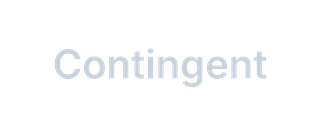
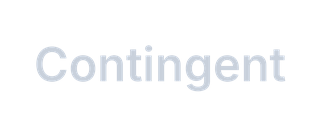
Dashboard 1: 30 px margins, larger header text, wider KPI cards and body

Changed region(s): [[0.0938, 0.3438, 0.9062, 0.7188]]

diff --git a/docs/brand/build/make_button_shapes.py b/docs/brand/build/make_button_shapes.py
@@ -9,10 +9,10 @@ Writes to docs/brand/shapes/Arcadia/ and a preview to docs/brand/build/button_pr
 
 | File | Cell on the dashboard | Drawn at | Used by |
 |---|---|---|---|
-| seg_worker_{employees,contingent,total}_{on,off} | 80 x 32 | 320 x 128 | #1 top bar, Worker toggle (capsule #243A57) |
-| fld_top | 164 x 32 | 656 x 128 | #1 top bar, Period Field and Group Field (white capsule, same radius as the toggle and Reset) |
+| seg_worker_{employees,contingent,total}_{on,off} | 80 x 32 | 320 x 128 (label 12 px) | #1 top bar, Worker toggle (capsule #243A57) |
+| fld_top | 180 x 32 | 720 x 128 | #1 top bar, Period Field and Group Field (white capsule, same radius as the toggle and Reset) |
 | fld_rail | 200 x 30 | 800 x 120 | #2 rail, Period Field and Group Field (#E4E3DD, radius as the toggles) |
-| btn_reset_top_label | 150 x 32 | 600 x 128 | #1 top bar, Reset (outlined capsule: arrow + "Reset to default view") |
+| btn_reset_top_label | 184 x 32 | 736 x 128 | #1 top bar, Reset (outlined capsule: arrow + "Reset to default view") |
 | btn_reset_top | 32 x 32 | 128 x 128 | Spare: arrow only, for a narrow header |
 | btn_reset_rail | 188 x 30 | 752 x 120 | #2 rail, Reset (outlined button, as published) |
 | btn_close | 16 x 16 | 64 x 64 | Both, the x on every popover (slate) |
@@ -52,7 +52,7 @@ def segment(label, on, name, w=320, h=128):
     im, d = canvas(w, h)
     if on:
         d.rounded_rectangle((10 * S, 10 * S, (w - 10) * S, (h - 10) * S), radius=((h - 20) // 2) * S, fill=WHITE)
-    f = ImageFont.truetype(FONT, 40 * S)
+    f = ImageFont.truetype(FONT, 47 * S)
     d.text((w * S // 2, h * S // 2), label, font=f, fill=NAVY if on else MIST, anchor="mm")
     save(im, w, h, name)
 
@@ -69,7 +69,7 @@ def field(name, w, h, fill, radius):
     save(im, w, h, name)
 
 
-field("fld_top", 656, 128, WHITE, 64)
+field("fld_top", 720, 128, WHITE, 64)
 field("fld_rail", 800, 120, WASH, 14)
 
 
@@ -92,12 +92,12 @@ reset_arrow(d, 64 * S, 66 * S, 38 * S, 9 * S, WHITE)
 save(im, 128, 128, "btn_reset_top")
 
 # #1 top bar: a capsule, arrow + words, so it reads as a button and not as a loading spinner
-w, h = 600, 128
+w, h = 736, 128
 im, d = canvas(w, h)
-d.rounded_rectangle((3 * S, 3 * S, (w - 3) * S, (h - 3) * S), radius=((h - 6) // 2) * S, outline=(255, 255, 255, 110), width=4 * S)
-reset_arrow(d, 62 * S, 66 * S, 20 * S, 6 * S, WHITE)
-f = ImageFont.truetype(FONT, 36 * S)
-d.text((98 * S, h * S // 2), "Reset to default view", font=f, fill=WHITE, anchor="lm")
+d.rounded_rectangle((3 * S, 3 * S, (w - 3) * S, (h - 3) * S), radius=((h - 6) // 2) * S, outline=(255, 255, 255, 120), width=4 * S)
+reset_arrow(d, 66 * S, 66 * S, 21 * S, 6 * S, WHITE)
+f = ImageFont.truetype(FONT, 45 * S)
+d.text((106 * S, h * S // 2), "Reset to default view", font=f, fill=WHITE, anchor="lm")
 save(im, w, h, "btn_reset_top_label")
 
 w, h = 752, 120

diff --git a/docs/projects/headcount-fte-walk/release_3_rebuild_dashboard_1.md b/docs/projects/headcount-fte-walk/release_3_rebuild_dashboard_1.md
@@ -79,10 +79,10 @@ Click flow after the fix: the click fires the parameter action, then the self fi
 
 | File | Size on the dashboard | Used for |
 |---|---|---|
-| `fld_top.png` | 164 × 32 | #1 Period and Group fields (white capsule, same radius as the toggle) |
+| `fld_top.png` | 180 × 32 | #1 Period and Group fields (white capsule, same radius as the toggle) |
 | `fld_rail.png` | 200 × 30 | #2 Period and Group fields (`#E4E3DD`, rounded like the toggles) |
 | `seg_worker_employees_on/off`, `seg_worker_contingent_on/off`, `seg_worker_total_on/off` | 80 × 32 each | #1 Workforce toggle (capsule `#243A57`) |
-| `btn_reset_top_label.png` | 150 × 32 | #1 Reset (outlined capsule: arrow + "Reset to default view") |
+| `btn_reset_top_label.png` | 184 × 32 | #1 Reset (outlined capsule: arrow + "Reset to default view") |
 | `btn_reset_top.png` | 32 × 32 | Spare: arrow only, for a narrow header |
 | `btn_reset_rail.png` | 188 × 30 | #2 Reset (outlined button, as published) |
 | `btn_close.png` / `btn_close_light.png` | 16 × 16 | The ✕ on every popover (slate on white / mist on navy) |
@@ -364,7 +364,7 @@ Sheet `Period Field`, source **Region Walk**:
 7. Tooltip: `Choose the period` (Tableau Book 9), uncheck Include command buttons.
 8. Dashboard item: floating, **Entire View**, background None, inner padding 0.
 
-Test: the field shows `FY26 · Jun 25 → Jun 26  ▾` on a white capsule filling 164 × 32. Hover: a thin outline around the box, **no square**. If the shape will not fill the cell, set the item to Fit **Standard** on the dashboard and widen the sheet's cell (Format > Cell size > Taller/Wider); if it still will not, use the fallback in 0.4 and tell me what you see.
+Test: the field shows `FY26 · Jun 25 → Jun 26  ▾` on a white capsule filling 180 × 32. Hover: a thin outline around the box, **no square**. If the shape will not fill the cell, set the item to Fit **Standard** on the dashboard and widen the sheet's cell (Format > Cell size > Taller/Wider); if it still will not, use the fallback in 0.4 and tell me what you see.
 
 ### 6.2 Group Field
 
@@ -405,7 +405,7 @@ Sheet `Reset`, source **Region Walk** (any one row):
 1. Marks **Shape** = `btn_reset_top_label` (the wide capsule with the words; not `btn_reset_rail`, which is #2's, and not `btn_reset_top`, the arrow-only spare); size max; filter `Period Is Current` = True and `view_name` = "Company" (one mark).
 2. Detail: every `Default ...` calc, `Close Panel`, `zzTrue`, `zzFalse`.
 3. Tooltip: `Reset to default view` (Semibold 9).
-4. Shading None; item **150 × 32**.
+4. Shading None; item **184 × 32**.
 
 ### 6.5 Info Button
 
@@ -445,7 +445,7 @@ Worksheet > Tooltip: bold line **How to read this page** (Semibold 10 navy), `<T
 
 ### 6.7 Headings over the fields
 
-Three dashboard **Text** objects (static text is not selectable), Tableau Bold 8, `#8FA0B8`, 180 × 14: `SELECT PERIOD`, `SELECT VIEW`, `SHOW`. Same words as #2's rail headings.
+Three dashboard **Text** objects (static text is not selectable), Tableau Bold 10, `#B8C4D6`, 180 × 14: `SELECT PERIOD`, `SELECT VIEW`, `SHOW`. Same words as #2's rail headings.
 
 ### 6.8 Header layout (1400 wide, band 76 high)
 
@@ -454,22 +454,22 @@ Every control is 32 high on the same baseline (y 30) and shaped as a capsule or 
 | Object | x | y | w | h |
 |---|---:|---:|---:|---:|
 | Header band (Blank, `#13233A`) | 0 | 0 | 1400 | 76 |
-| Logo | 56 | 14 | 177 | 48 |
-| Page Title | 249 | 9 | 285 | 58 |
-| SELECT PERIOD | 546 | 12 | 164 | 14 |
-| Period Field | 546 | 30 | 164 | 32 |
-| SELECT VIEW | 722 | 12 | 164 | 14 |
-| Group Field | 722 | 30 | 164 | 32 |
-| SHOW | 898 | 12 | 240 | 14 |
-| Workforce Toggle | 898 | 30 | 240 | 32 |
-| Reset | 1150 | 30 | 150 | 32 |
-| Info Button | 1312 | 30 | 32 | 32 |
+| Logo | 30 | 14 | 177 | 48 |
+| Page Title | 223 | 9 | 275 | 58 |
+| SELECT PERIOD | 506 | 12 | 180 | 14 |
+| Period Field | 506 | 30 | 180 | 32 |
+| SELECT VIEW | 698 | 12 | 180 | 14 |
+| Group Field | 698 | 30 | 180 | 32 |
+| SHOW | 890 | 12 | 240 | 14 |
+| Workforce Toggle | 890 | 30 | 240 | 32 |
+| Reset | 1142 | 30 | 184 | 32 |
+| Info Button | 1338 | 30 | 32 | 32 |
 
-Gaps are 12 px between controls; the right edge is 1344, the 56 px gutter of the page. Delete any parameter control (`p_InfoOpen`, `p_Worker`, `p_From`, `p_To`) and shape legend (`Info Shape`) left on the dashboard: they are helpers for the actions, not part of the page. The Page Title text is **white**.
+Gaps are 12 px between controls and 16 px between the logo/title and the fields; the logo sits on the left edge of the page grid (x 30) and Info on the right edge (1370). The whole page uses a **30 px margin** so the banner and the body are the same width. Delete any parameter control (`p_InfoOpen`, `p_Worker`, `p_From`, `p_To`) and shape legend (`Info Shape`) left on the dashboard: they are helpers for the actions, not part of the page. The Page Title text is **white**.
 
 ---|---:|---:|---:|---:|
 | Header band (Blank, `#13233A`) | 0 | 0 | 1400 | 76 |
-| Logo | 56 | 14 | 177 | 48 |
+| Logo | 30 | 14 | 177 | 48 |
 | Page Title | 256 | 9 | 372 | 58 |
 | SELECT PERIOD | 640 | 12 | 180 | 14 |
 | Period Field | 640 | 30 | 180 | 32 |
@@ -622,7 +622,11 @@ Expand / Collapse buttons: copy #2's construction (build_status.md, "Expand / Co
 
 ### 8.2 KPI cards
 
-Card set per toggle value. The geometry (map layers, 15 anchors) stays as built; only the text calcs change.
+#### 8.2a Wider cards (30 px margin)
+
+The cards now span the full page grid (x 30 to 1370): five cards 255 wide with 16 gaps. Use the new background `docs/brand/arcadia_kpi_cards_bg_wide.png` (2800 × 220; generated with `make_kpi_cards_bg.py --left 30 --top 12 --card-w 255 --card-h 86 --gap 16 --radius 10`) as the background image item (0, 78, 1400 × 110). Set the KPI parameters: `kpi_GridLeft` 30, `kpi_CardW` 255, `kpi_GapX` 16 (others unchanged: GridTop 12, CardH 86, PadX 16). Tableau pads the map extent, so check that each title starts 16 px inside its card; if all five drift the same way nudge `kpi_FitX` by 0.01 (and `kpi_ShiftX` for a constant offset), as in the KPI guide, section 6.
+
+Card set per toggle value. The map layers and 15 anchors stay as built; only the text calcs change.
 
 | Card | Employees | Contingent | Total |
 |---|---|---|---|
@@ -787,14 +791,14 @@ If the secondary number shows blank: the link is not active (click the link icon
 | # | Object | x | y | w | h | Note |
 |---|---|---:|---:|---:|---:|---|
 | 1–11 | Header (6.8) | | | | | |
-| 12 | KPI background image | 0 | 78 | 1400 | 110 | unchanged |
-| 13 | KPI cards | 0 | 78 | 1400 | 110 | unchanged |
-| 14 | Waterfall | 56 | 188 | 780 | 624 | unchanged; bottom padding 64 |
-| 15 | Btn Expand ALL / Btn Collapse ALL | 674 | 198 | 150 | 24 | Same spot; one visible at a time |
-| 16 | Waterfall Caption | 68 | 750 | 756 | 56 | Two lines now |
-| 17 | Trend | 848 | 188 | 496 | 300 | unchanged |
-| 18 | Turnover | 848 | 500 | 496 | 312 | unchanged |
-| 19 | Footnote (Text object) | 56 | 822 | 600 | 16 | "Arcadia Systems is a fictional company. All data is synthetic." Book 8 slate |
+| 12 | KPI background image | 0 | 78 | 1400 | 110 | new wide image (8.2a) |
+| 13 | KPI cards | 0 | 78 | 1400 | 110 | geometry parameters per 8.2a |
+| 14 | Waterfall | 30 | 188 | 806 | 624 | unchanged; bottom padding 64 |
+| 15 | Btn Expand ALL / Btn Collapse ALL | 686 | 198 | 150 | 24 | Same spot; one visible at a time |
+| 16 | Waterfall Caption | 42 | 750 | 782 | 56 | Two lines now |
+| 17 | Trend | 852 | 188 | 518 | 300 | unchanged |
+| 18 | Turnover | 852 | 500 | 518 | 312 | unchanged |
+| 19 | Footnote (Text object) | 30 | 822 | 600 | 16 | "Arcadia Systems is a fictional company. All data is synthetic." Book 8 slate |
 | 20 | Period / Group / Info popovers | 7.1, 7.2, 8.4 | | | | Front, hidden |
 
 Item order (Layout pane, bottom to top): background, cards, charts, buttons, header controls, popovers last.
